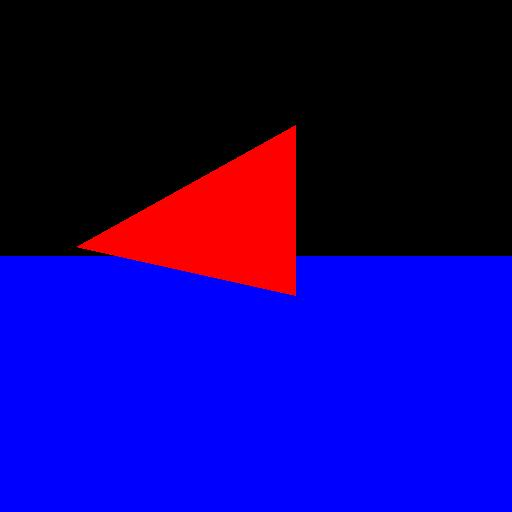
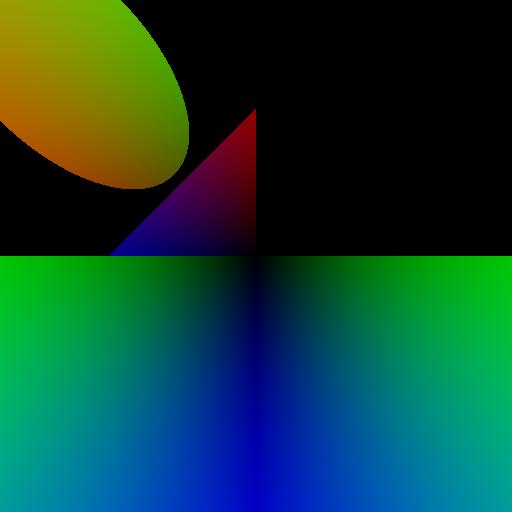
-*-Ray-*- sphere

diff --git a/ray tracer/src/Main.java b/ray tracer/src/Main.java
@@ -2,11 +2,9 @@ import javax.vecmath.Matrix4f;
 import javax.vecmath.Vector3f;
 import javax.vecmath.Vector4f;
 
-
 public class Main {
 
 	public static Camera camera;
-	public static Intersectable objects;
 	public static Film film;
 
 	public static void main(String[] args) {
@@ -23,12 +21,15 @@ public class Main {
 		Vector3f normal = new Vector3f(0.f, 1.f, 0.f);
 		float d = 1.f;
 		Plane plane = new Plane(normal, d);
-		objects = plane;
 
-		Vector3f v1 = new Vector3f(2, 2, 0);
-		Vector3f v2 = new Vector3f(0, -7, 0);
-		Vector3f v3 = new Vector3f(-7, 0, 0);
+		Vector3f v1 = new Vector3f(0, 0, 0);
+		Vector3f v2 = new Vector3f(0, 2, 0);
+		Vector3f v3 = new Vector3f(2, 0, 0);
 		Triangle triangle = new Triangle(v1, v2, v3);
+
+		Vector3f c = new Vector3f(2, 2, 0);
+		float r = 1;
+		Sphere sphere = new Sphere(c, r);
 
 		film = new Film(width, height);
 
@@ -36,25 +37,32 @@ public class Main {
 			for (int h = 0; h < height; h++) {
 				Vector4f primaryRay = Ray.transform(new Matrix4f(camera.getCameraMatrix()),
 						new Vector4f(camera.getPixelRay(w, h)));
+				primaryRay.add(new Vector4f(eye.x, eye.y, eye.z, 1));
+				primaryRay.normalize();
 				boolean intersectionPlane = plane.testIntersection(new Vector3f(primaryRay.x,
-						primaryRay.y, primaryRay.z), eye);
-				boolean intersectionTriangle = triangle.testIntersection(new Vector3f(primaryRay.x,
-						primaryRay.y, primaryRay.z), eye);
+						primaryRay.y, primaryRay.z), new Vector3f(eye));
+				boolean intersectionTriangle = triangle.testIntersection(new Vector3f(
+						primaryRay.x, primaryRay.y, primaryRay.z), new Vector3f(eye));
+				boolean intersectionSphere = sphere.testIntersection(new Vector3f(
+						primaryRay.x, primaryRay.y, primaryRay.z), new Vector3f(eye));
 				int rgb = 0;
 				int red = 0;
 				int green = 0;
 				int blue = 0;
-				if (intersectionTriangle)
-					red = 255;
-				else if (intersectionPlane)
-					blue = 255;
+				if (intersectionSphere) {
+					red = (int) (Math.abs(primaryRay.x) * 255);
+					green = (int) (Math.abs(primaryRay.y) * 255);
+				} else if (intersectionTriangle) {
+					blue = (int) (Math.abs(primaryRay.x) * 255);
+					red = (int) (Math.abs(primaryRay.y) * 255);
+				} else if (intersectionPlane) {
+					green = (int) (Math.abs(primaryRay.x) * 255);
+					blue = (int) (Math.abs(primaryRay.y) * 255);
+				}
 				rgb = (red << 16) + (green << 8) + blue;
 				film.setPixel(w, h, rgb);
 			}
 
 		film.createImage("abc.jpg");
 	}
-
-
-
 }

diff --git a/ray tracer/src/Camera.java b/ray tracer/src/Camera.java
@@ -2,7 +2,6 @@ import javax.vecmath.Matrix4f;
 import javax.vecmath.Vector3f;
 import javax.vecmath.Vector4f;
 
-
 public class Camera {
 
 	private Matrix4f cameraMatrix;
@@ -14,7 +13,8 @@ public class Camera {
 	private float width;
 	private float height;
 
-	public Camera(Vector3f from, Vector3f to, Vector3f up, float fov, float aspect, int w, int h) {
+	public Camera(Vector3f from, Vector3f to, Vector3f up, float fov, float aspect, int w,
+			int h) {
 		cameraMatrix = new Matrix4f();
 		centerOfProjection = from;
 		lookAtPoint = to;
@@ -103,10 +103,11 @@ public class Camera {
 		wVec.set(tVec);
 
 		tVec.set(upVector);
-		tVec.cross(tVec, wVec);
+		tVec.cross(upVector, wVec);
 		tVec.normalize();
 		uVec.set(tVec);
 
+		tVec.set(wVec);
 		tVec.cross(wVec, uVec);
 		vVec.set(tVec);
 
@@ -118,18 +119,19 @@ public class Camera {
 	}
 
 	public Vector4f getPixelRay(int i, int j) {
-		return new Vector4f(u(i, j), v(i, j), -1, 1);
+		Vector4f suvw = new Vector4f(u(i, j), v(i, j), -1, 0);
+		return suvw;
 	}
 
 	private float u(int i, int j) {
-		float t = (float) Math.tan(theta / 2);
+		float t = (float) Math.tan(theta * Math.PI / 180);
 		float r = aspectRatio * t;
 		float l = -r;
 		return l + (r - l) * ((i + 0.5f) / width);
 	}
 
 	private float v(int i, int j) {
-		float t = (float) Math.tan(theta / 2);
+		float t = (float) Math.tan(theta * Math.PI / 180);
 		float b = -t;
 		return b + (t - b) * ((j + 0.5f) / height);
 	}

diff --git a/ray tracer/src/Sphere.java b/ray tracer/src/Sphere.java
@@ -2,10 +2,34 @@ import javax.vecmath.Vector3f;
 
 public class Sphere implements Intersectable {
 
+	Vector3f center;
+	float radius;
+
+	public Sphere(Vector3f c, float r) {
+		center = c;
+		radius = r;
+	}
+
 	@Override
 	public boolean testIntersection(Vector3f ray, Vector3f eye) {
-		// TODO Auto-generated method stub
-		return false;
+		Vector3f ec = new Vector3f(eye);
+		ec.sub(center);
+		float a = ray.dot(ray);
+		float b = 2 * ray.dot(ec);
+		float c = ec.dot(ec) - (radius * radius);
+
+		// Find discriminant
+		float disc = b * b - 4 * a * c;
+
+		// if discriminant is negative there are no real roots, so return
+		// false as ray misses sphere
+		if (disc < 0)
+			return false;
+
+		float x1 = (float) ((-b + Math.sqrt(disc)) / 2 * a);
+		float x2 = (float) ((-b - Math.sqrt(disc)) / 2 * a);
+
+		return true;
 	}
 
 }

diff --git a/ray tracer/src/Plane.java b/ray tracer/src/Plane.java
@@ -1,6 +1,5 @@
 import javax.vecmath.Vector3f;
 
-
 public class Plane implements Intersectable {
 
 	Vector3f normal;
@@ -31,8 +30,8 @@ public class Plane implements Intersectable {
 	public boolean testIntersection(Vector3f ray, Vector3f eye) {
 		Vector3f l = new Vector3f(ray.x, ray.y, ray.z);
 		Vector3f p0 = new Vector3f(normal);
-		p0.scale(-distance);
-		Vector3f l0 = new Vector3f();
+		p0.scale(distance);
+		Vector3f l0 = new Vector3f(eye);
 		Vector3f n = new Vector3f(normal);
 		p0.sub(l0);
 		return p0.dot(n) / l.dot(n) > 0;

diff --git a/ray tracer/src/Triangle.java b/ray tracer/src/Triangle.java
@@ -1,6 +1,5 @@
 import javax.vecmath.Vector3f;
 
-
 public class Triangle implements Intersectable {
 
 	Vector3f verticle1;

diff --git a/ray tracer/src/Ray.java b/ray tracer/src/Ray.java
@@ -1,7 +1,6 @@
 import javax.vecmath.Matrix4f;
 import javax.vecmath.Vector4f;
 
-
 public class Ray {
 
 	Vector4f origin;
